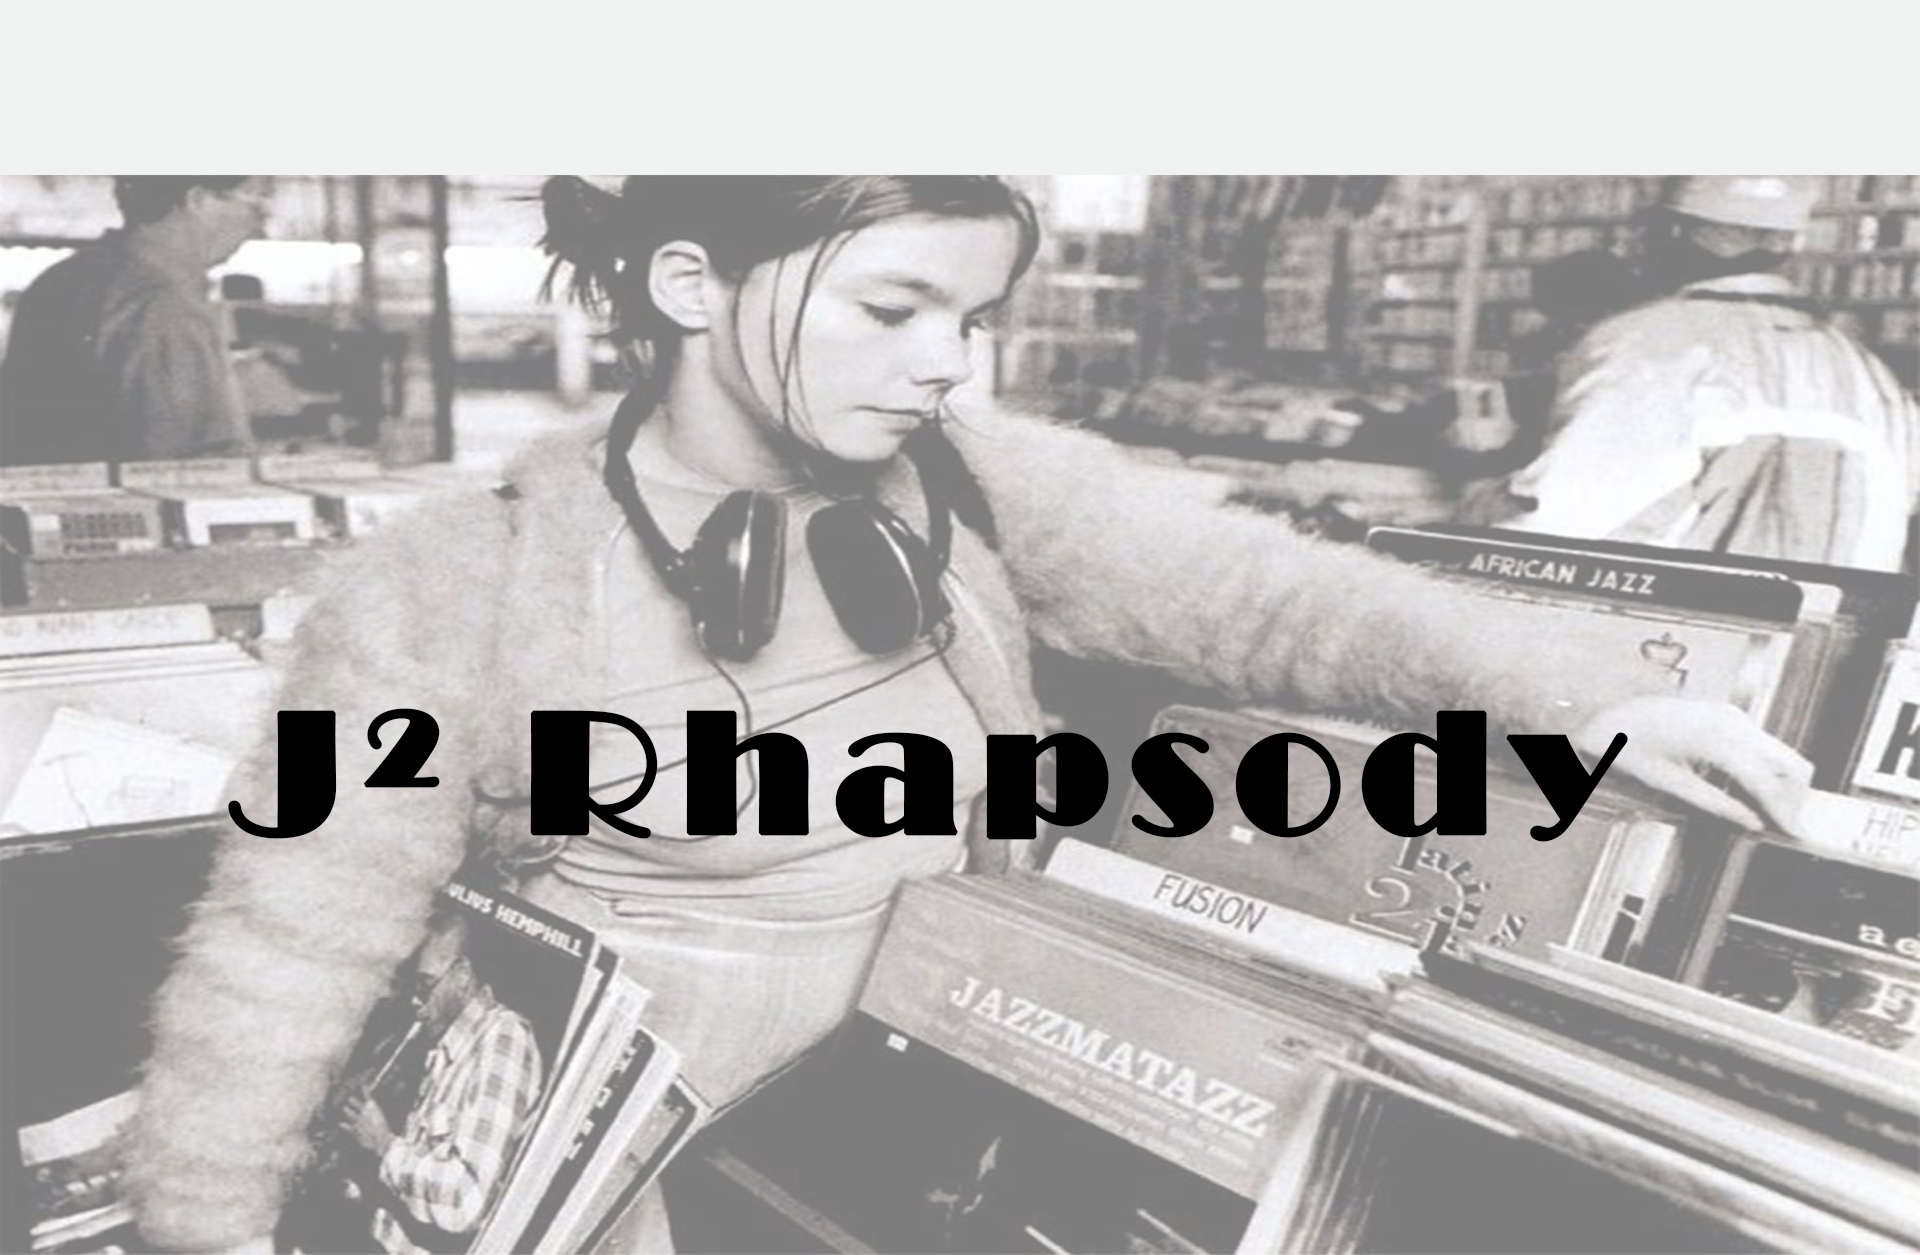
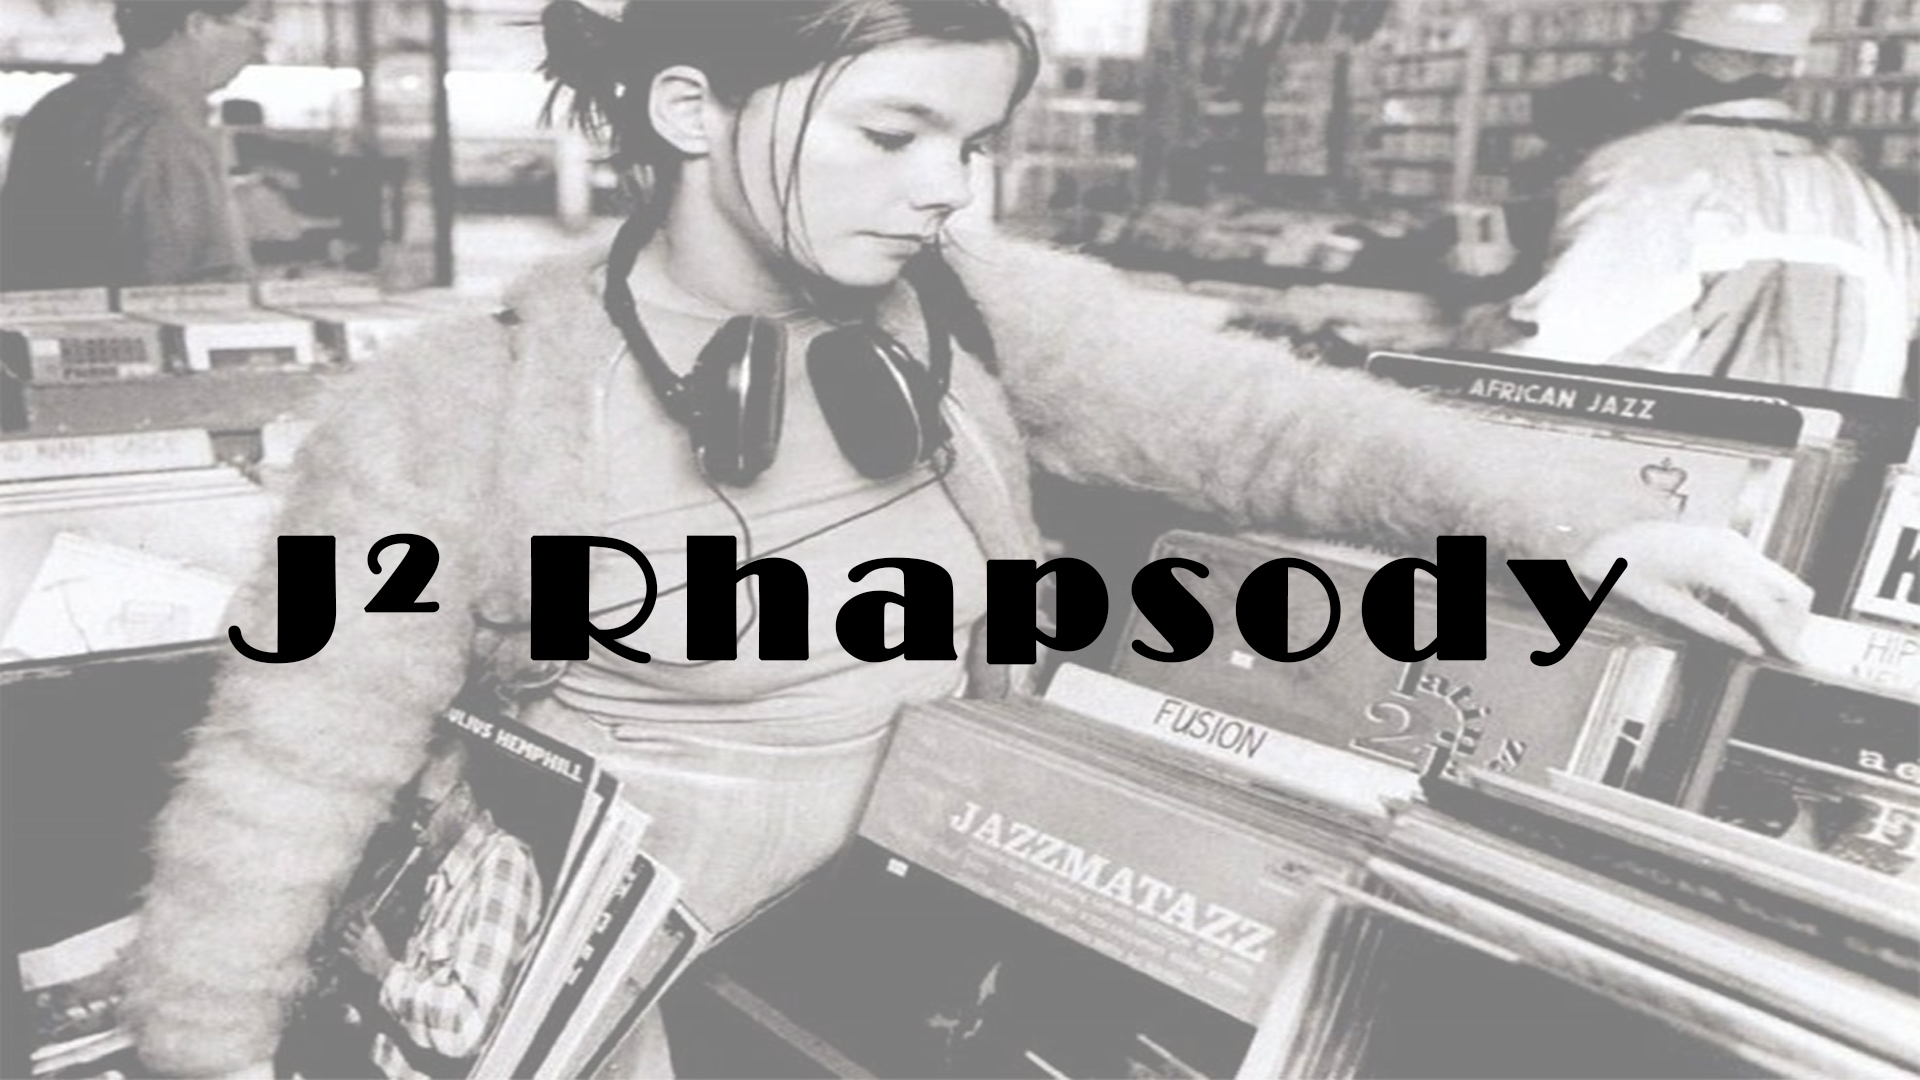
cadastro e-mail e contatos

diff --git a/index.html b/index.html
@@ -122,19 +122,93 @@
             </div>
         </div>
     </main>
-    <div id="contato">
-        <ul class="">
-            <li><a>Arthur Ferreira</a></li>
-            <li><a>Henrique Santantonio de Paula</a></li>
-            <li><a>James de Souza</a></li>
-            <li><a>José Ramos</a></li>
-            <li><a>Pedro Acácio Bergamasco</a></li>
-            <li><a>Ricardo Freitas</a></li>
-            <li><a>Silvano Araujo Pereira</a></li>
-            <li><a>Yasmin Trentini</a></li>
-            <li><a></a></li>
-        </ul>
+    <div class="d">
+        <div class="d">
+            <p>Cadastre-se e receba nossas novidades em primeira mão!</p>
+        </div>
+        <div>
+            <form>
+                <input type="hidden" name="nr" value="widget-minimal">
+                <input class="tnp-email" type="email" required="" name="ne" value="" placeholder=" E-mail ">
+                <input class="button" type="submit" value="Inscreva-se">
+            </form>
+        </div>
     </div>
+
+
+    <div class="redes">
+
+
+        <div class="titulo">
+            <p>Created by:</p>
+
+            <ul class="nomes">
+                <li><a class="rs" target="_black">Arthur Ferreira</a>
+                    <a href="" target="_blank">
+                        <img class="fvlink" src="./img/linkedin.png" alt="">
+                    </a>
+                    <a href="https://github.com/arthurFL0" target="_blank">
+                        <img class="fvlink" src="./img/github.png" alt="">
+                    </a>
+                </li>
+                <li><a class="rs">Henrique Santantonio de Paula</a>
+                    <a href="https://br.linkedin.com/in/henrique-santantonio-de-paula-25ab0315b" target="_blank">
+                        <img class="fvlink" src="./img/linkedin.png" alt="">
+                    </a>
+                    <a href="https://github.com/HenriqueSantantonio" target="_blank">
+                        <img class="fvlink" src="./img/github.png" alt="">
+                    </a>
+                </li>
+                <li></li><a class="rs">James de Souza</a>
+                <a href="https://www.linkedin.com/in/m-james-souza/" target="_blank">
+                    <img class="fvlink" src="./img/linkedin.png" alt="">
+                </a>
+
+                <a href="https://github.com/mjames-souza" target="_blank">
+                    <img class="fvlink" src="./img/github.png" alt="">
+                </a></li>
+                <li></li><a class="rs">José Ramos</a>
+                <a href="https://www.linkedin.com/in/jos%C3%A9-ramos-carvalho-neto/" target="_blank">
+                    <img class="fvlink" src="./img/linkedin.png" alt="">
+                </a>
+
+                <a href="https://github.com/JoseRCN" target="_blank">
+                    <img class="fvlink" src="./img/github.png" alt="">
+                </a></li>
+                <li><a class="rs">Pedro Alcacio Bergamasco</a>
+                    <a href="" target="_blank">
+                        <img class="fvlink" src="./img/linkedin.png" alt="">
+                    </a>
+                    <a href="https://github.com/pedrobergamasco" target="_blank">
+                        <img class="fvlink" src="./img/github.png" alt="">
+                    </a>
+                </li>
+                <li><a class="rs">Ricardo Freitas</a>
+                    <a href="" target="_blank">
+                        <img class="fvlink" src="./img/linkedin.png" alt="">
+                    </a>
+                    <a href="https://github.com/ricfreitas13" target="_blank">
+                        <img class="fvlink" src="./img/github.png" alt="">
+                    </a>
+                </li>
+                <li><a class="rs">Silvano Araujo</a>
+                    <a href="https://www.linkedin.com/in/silvano-araujo-pereira-0616083b/" target="_blank">
+                        <img class="fvlink" src="./img/linkedin.png" alt="">
+                    </a>
+                    <a href="https://github.com/Silvanoeng" target="_blank">
+                        <img class="fvlink" src="./img/github.png" alt="">
+                    </a>
+                </li>
+                <li><a class="rs">Yasmin Trentini </a>
+                    <a href="" target="_blank">
+                        <img class="fvlink" src="./img/linkedin.png" alt="">
+                    </a>
+                    <a href="https://github.com/YasminTrentini" target="_blank">
+                        <img class="fvlink" src="./img/github.png" alt="">
+                    </a>
+                </li>
+            </ul>
+        </div>
     <footer id="footer">
         <h2>J²Rhapsody - Todos os direitos reservados</h2>
     </footer>

diff --git a/css/styles.css b/css/styles.css
@@ -64,11 +64,12 @@ a.menu-botao:hover {
 }
 
 #banner1 {
-  background-image: url(../img/baner\ 1.jpg);
+  background-image: url(../img/banner\ 1.jpg);
   background-attachment: fixed;
-  background-position: center;
+  background-position: top;
   background-repeat: no-repeat;
-  background-size: cover;
+  background-size:cover;
+  background-repeat: no-repeat;
   display: flex;
   justify-content: center;
   align-items: center;
@@ -80,7 +81,7 @@ a.menu-botao:hover {
 #banner2 {
   background-image: url(../img/banner\ 2.jpg);
   background-attachment: fixed;
-  background-position: center;
+  background-position: top;
   background-repeat: no-repeat;
   background-size: cover;
   display: flex;
@@ -95,16 +96,24 @@ a.menu-botao:hover {
   margin-top: 60px;
   display: grid;
   grid-template-columns: repeat(3, 1fr);
-  grid-gap: 25px;
-  justify-content: ;
+  justify-content: space-around;
   padding-top: 100px;
   padding-bottom: 100px;
+  
   background-image: url("../img/fundo\ imagem\ site.jpg");
+}
+.capa a{
+  height: 100%;
+  width: 100%;
+  display: flex;
+  align-items: center;
+  justify-content: center ;
 }
 
 .capa img {
-  height: 100%;
-  width: 100%;
+  height: 90%;
+  width: 90%;
+  
   object-fit: cover;
   border: 5px solid white;
   transition: all 0.3s ease-in-out;
@@ -113,22 +122,131 @@ a.menu-botao:hover {
 }
 
 .capa img:hover {
-  transform: scale(1.05);
+  transform: scale(1.1);
 }
 
 footer {
   display: flex;
-  justify-content: space-between;
+  justify-content: space-evenly;
   padding: 20px;
   margin-top: 100px;
-  align-items: center;
   flex-wrap: wrap;
   background: black;
   color: white;
-  text-align: center;
-  
+  height: 181px;
+  flex-direction: row;
+  align-content: space-around;
+  bottom: 0;
 }
 
+.d{
+  color: white;
+  text-align: center;
+  padding: 10%;
+  font-size: 1.5rem;
+  margin-left: 1.5rem;
+  font-family: 'Days One', sans-serif;
+  display:block;
+  font-size: 2.7rem; 
+  max-width:max-content
+}
+
+.tnp-email{
+  width: 350px;
+  height:50px ;
+  font-family: 'Days One', sans-serif; 
+  background-color:white;
+  border-radius: 10px; 
+  border: none; 
+}
+
+.button{
+  margin: 0px 18px 0px 0px;
+  width: 150px;
+  height:50px ;
+  background-color: #f0f2f2;
+  font-family: 'Days One', sans-serif; 
+  text-decoration: black;
+  border-radius: 10px;
+  border: none;
+}
+
+.button:hover{
+  transition: all 1s;
+cursor: pointer;
+-webkit-transform: scale(1.2);
+transform: scale(1.2);
+}
+
+
+nomes e linkedin
+
+* Redes */
+
+.redes {
+  text-align:right;
+  grid-column: 1 / 3;
+  display: flex;
+  justify-content: right;
+  align-items:flex;
+  font-size: 1.5rem;
+  justify-content: right;
+  max-width:max-content
+}
+
+.redes a {
+  font-size: 1.5rem;
+  margin-left: 2rem;
+  text-align: right;
+  display: inline;
+  max-width:max-content;
+}
+
+
+
+.titulo{
+  padding: 4rem;
+  text-align: right;
+  display:block;
+  max-width:max-content;
+
+
+
+}
+
+.titulo p{
+  color: #fff;
+  display: table-footer-group;
+  font-size: 3rem;
+  padding: 0 10%;
+  max-width:max-content;
+
+
+}
+
+.rs{
+  color: white;
+  font-family: 'Roboto', sans-serif;
+  padding: 10% 2rem;
+  border-radius: 1rem;
+  transition: all 0.3s ease-in-out;
+  max-width:max-content;
+
+}
+
+
+.fvlink{
+  height: 1.5rem;
+  width: 1.5rem;
+  max-width:max-content;
+}
+
+.fvlink:hover{
+      transition: all 1s;
+      cursor: pointer;
+      -webkit-transform: scale(1.2);
+      transform: scale(1.2);
+  }
 @media (max-width: 689px) {
   .card-grid {
     grid-template-columns: repeat(1, 1fr);

diff --git a/Artista 1/css/styles.css b/Artista 1/css/styles.css
@@ -234,5 +234,18 @@ footer {
     height: 181px;
     flex-direction: row;
     align-content: space-around;
+    bottom: 0;
   
 }
+@media (max-width: 689px) {
+  .card-grid {
+    grid-template-columns: repeat(1, 1fr);
+  }
+}
+
+@media (min-width: 690px) and (max-width: 1045px) {
+  .card-grid {
+    grid-template-columns: repeat(2, 1fr);
+  }
+}
+
